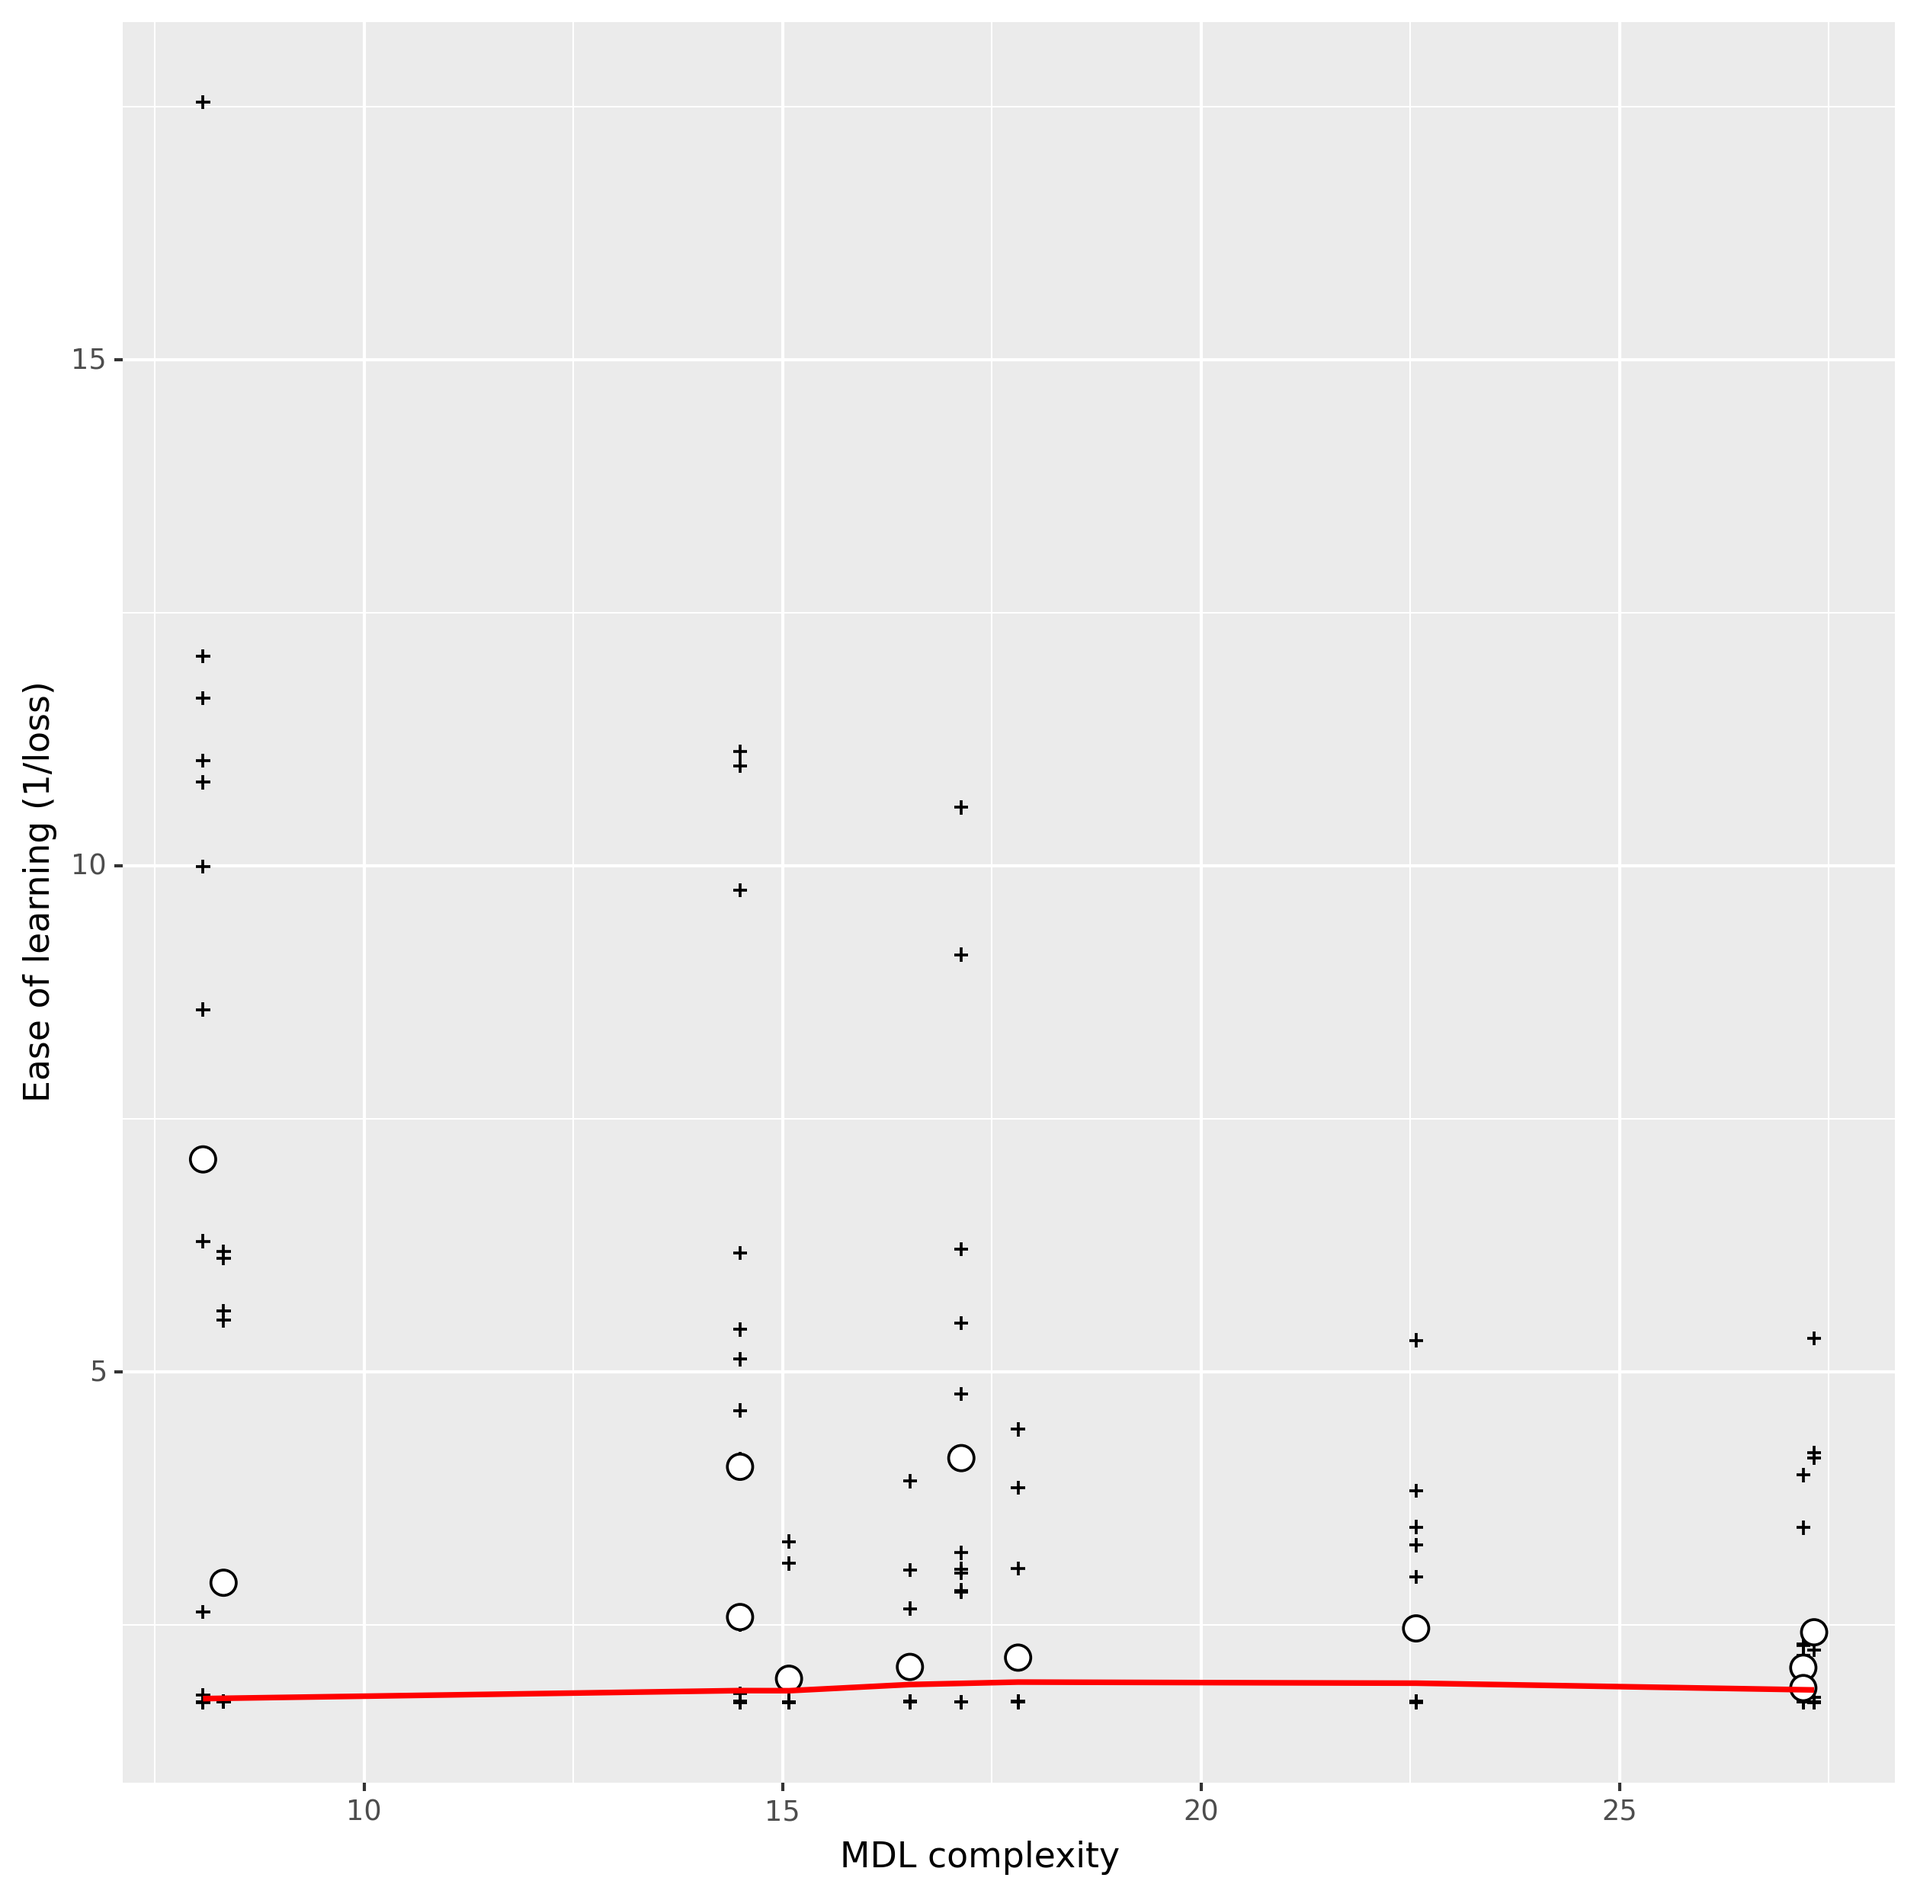
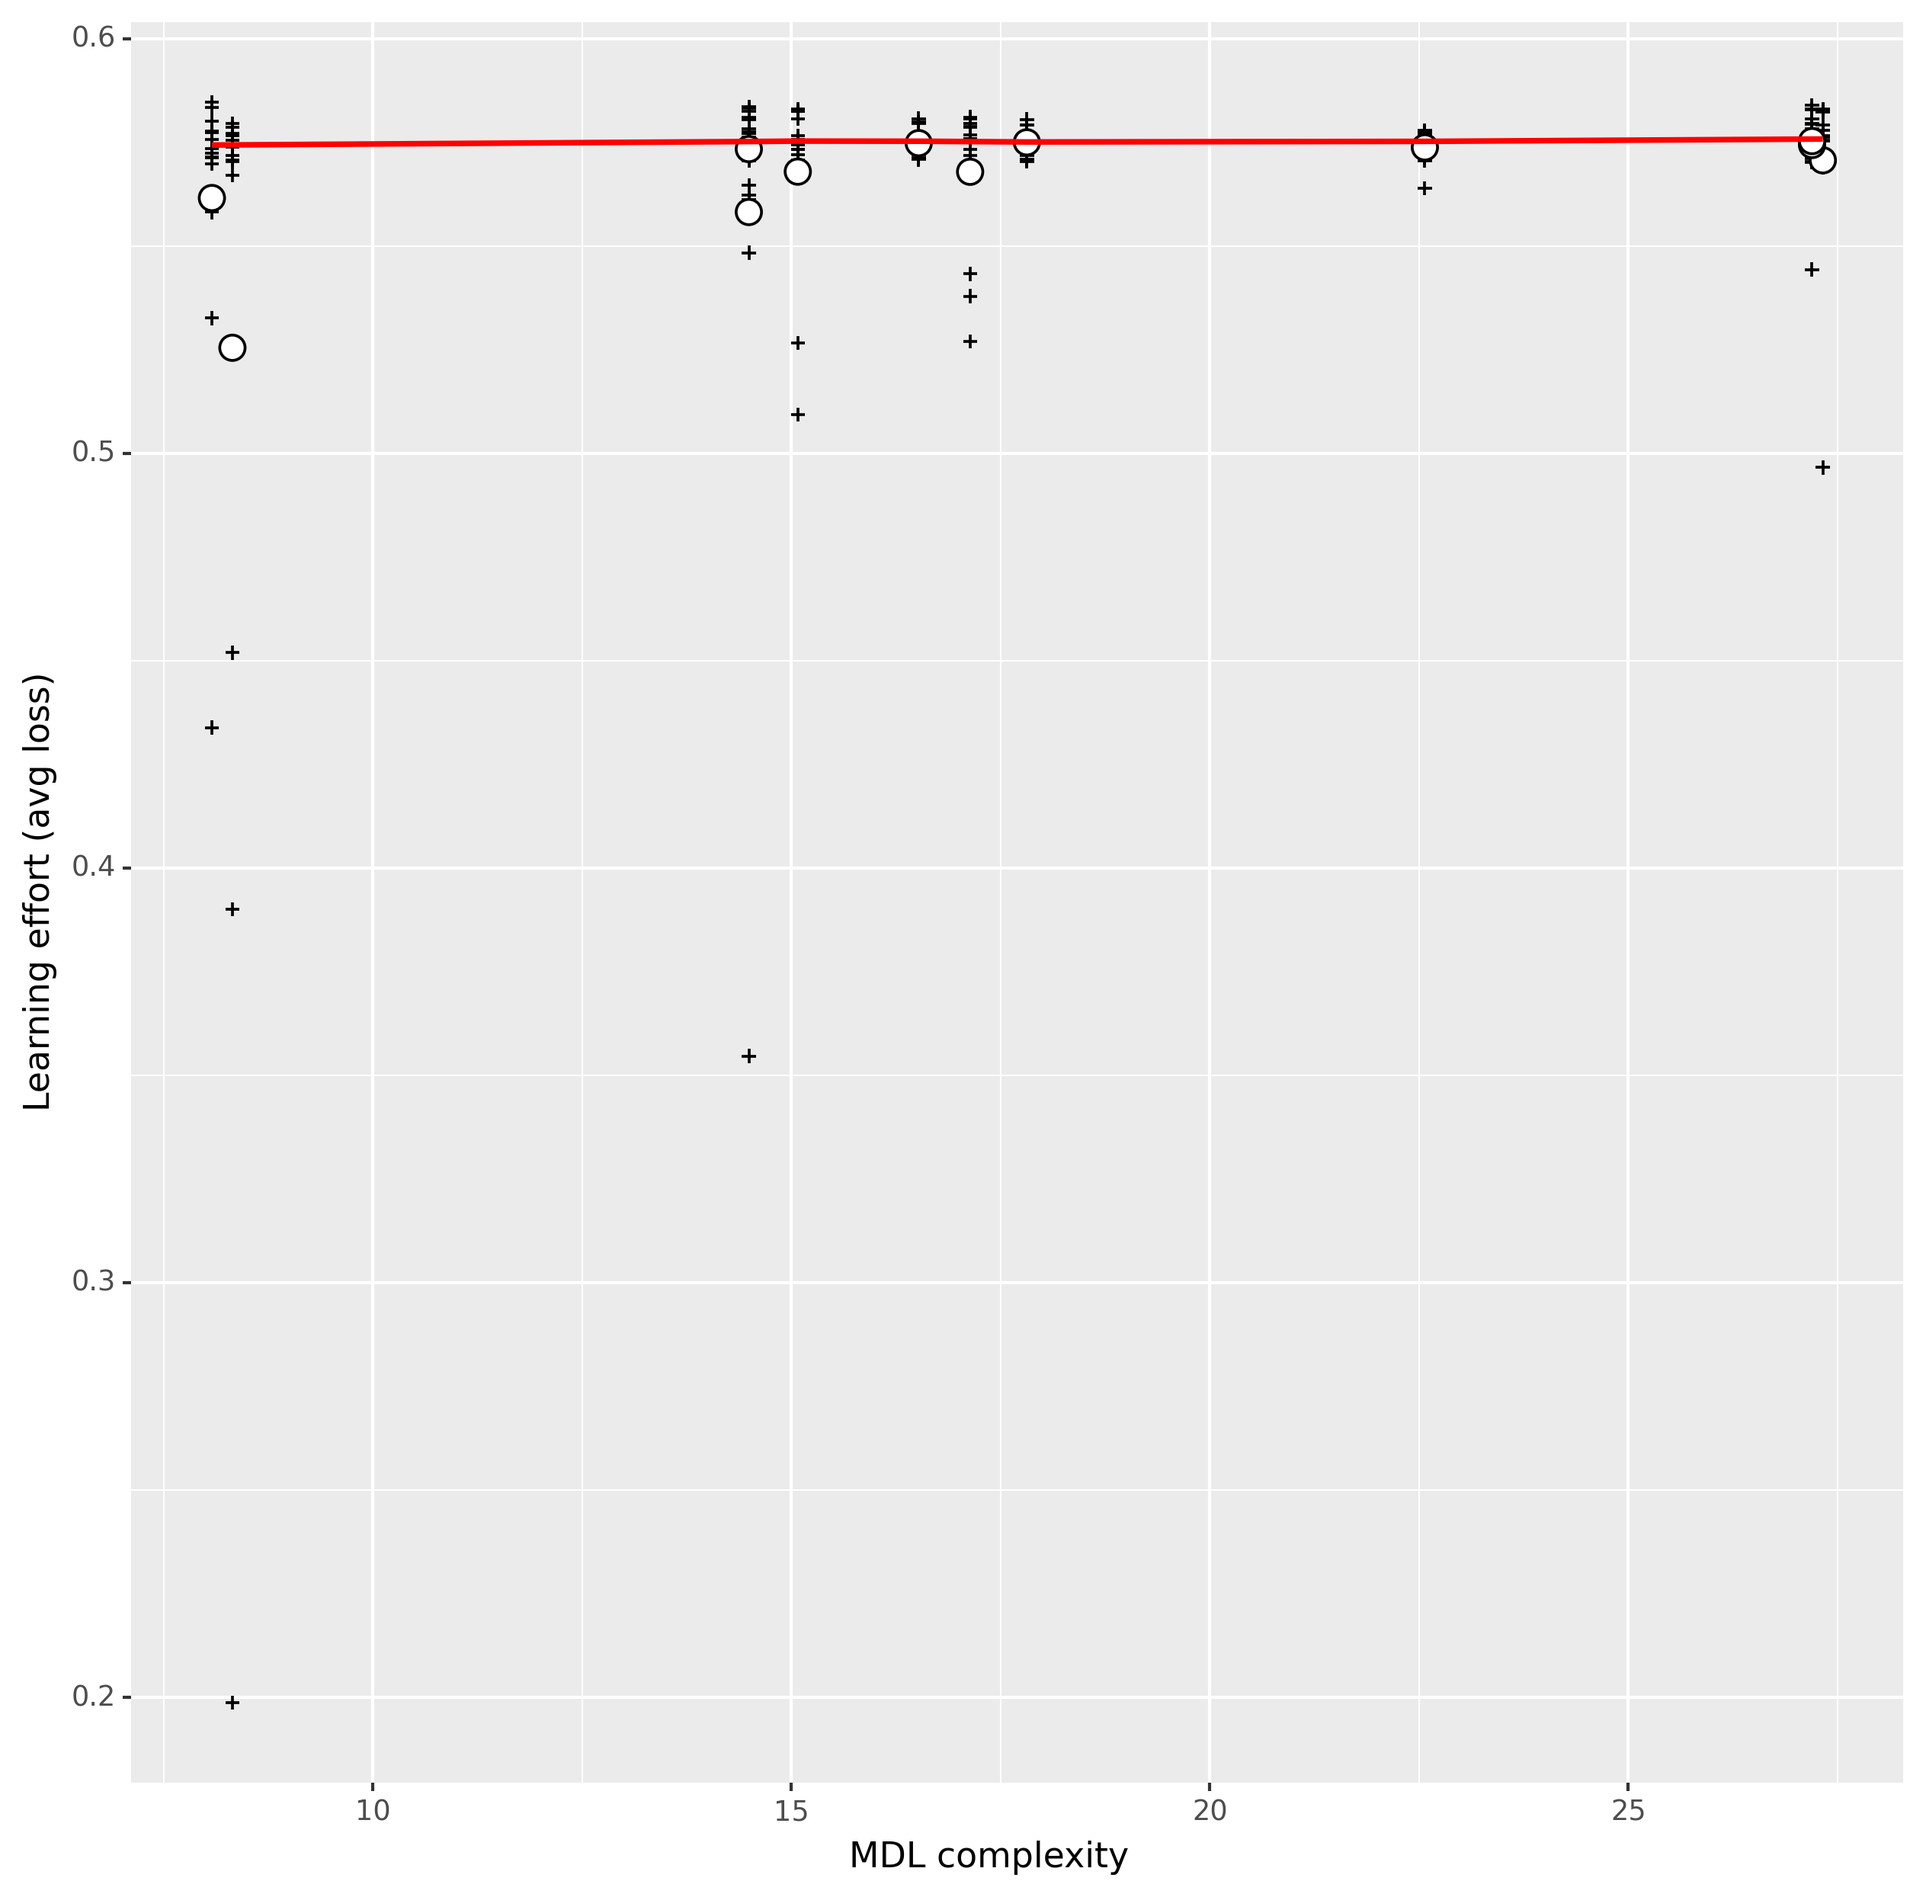
change back to effort

diff --git a/src/analyze.py b/src/analyze.py
@@ -28,22 +28,22 @@ def main():
     # print("LEARNING DATA: ", learning_data)
 
     # NB: turn learning effort into ease by reporting 1/loss    
-    category_learnabilities = [
-        1 / losses for losses in learning_data.values()
+    category_losses = [
+        losses for losses in learning_data.values()
     ]  # shape `(num_categories, num_learners)`
     # print("CATEGORY LOSSES: ", category_losses)
-    mean_category_learnabilities = np.mean(category_learnabilities, axis=1)
+    mean_category_losses = np.mean(category_losses, axis=1)
 
     # create plot points of (mdl, loss) with number of repeat (mdl, ) points equal to number of learners
     points = [
-        (categories[category_name]["codelength"], 1 / loss)
+        (categories[category_name]["codelength"], loss)
         for category_name in categories
         for loss in learning_data[category_name]
     ]
 
     # analyze and visualize data
     df = pd.DataFrame(points, columns=["mdl", "effort"])
-    df_mean = pd.DataFrame({"mdl": mdl_complexities, "effort": mean_category_learnabilities})
+    df_mean = pd.DataFrame({"mdl": mdl_complexities, "effort": mean_category_losses})
 
     # Plot MDL complexity vs learning effort
     plot = (
@@ -56,13 +56,13 @@ def main():
         + pn.geom_point(size=4, shape="o", fill="white", data=df_mean)
         + pn.geom_smooth(size=1, data=df, alpha=0.2, color="red", se=True)
         + pn.xlab("MDL complexity")
-        + pn.ylab("Ease of learning (1/loss)")
+        + pn.ylab("Learning effort (avg loss)")
         + pn.scale_color_cmap("cividis")
     )
     util.save_plot(plot_fn, plot)
 
     # Report spearman rank correlation for MDL complexity vs learning effort
-    result = stats.spearmanr(mdl_complexities, mean_category_learnabilities)
+    result = stats.spearmanr(mdl_complexities, mean_category_losses)
     print("SPEARMAN RHO: ", result.correlation)
 
 

diff --git a/src/train.py b/src/train.py
@@ -238,6 +238,9 @@ def main():
         ],
     )
     df_categorical = df.assign(Concept=pd.Categorical(df['Concept'], categories=[str(i+1) for i in range(len(category_losses))])) # preserve order in legend
+
+    print(df_categorical.Concept)
+
     plot = (
         pn.ggplot(
             data=df_categorical, mapping=pn.aes(x="Epoch", y="Loss")
